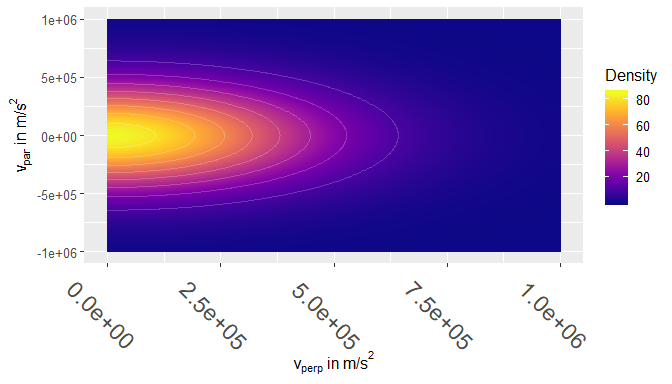
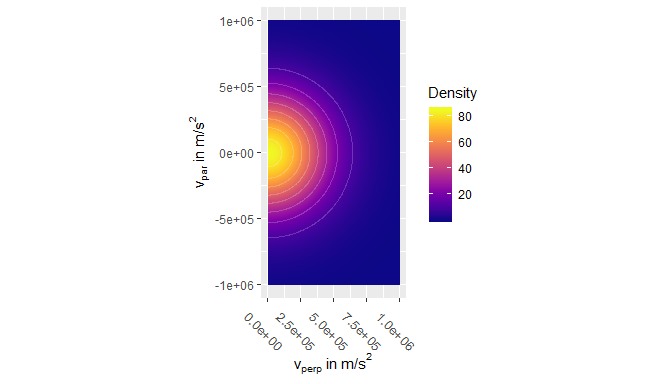
update readme

diff --git a/README.md b/README.md
@@ -7,9 +7,9 @@
 
 <!-- badges: end -->
 
-The goal of `j0j0r` is to calculate the unscreened current correlation
-tensor of the plasma fluctuation model of [Bindslev 1996, Journal of
-Atmospheric and Terrestial Physics, **58**,
+`j0j0r` is is an R-package built to calculate the unscreened current
+correlation tensor of the plasma fluctuation model of [Bindslev 1996,
+Journal of Atmospheric and Terrestial Physics, **58**,
 983](https://www.sciencedirect.com/science/article/pii/0021916995001298).
 
 The code is meant to be distribution-agnostic, i.e. it should be able to
@@ -22,8 +22,7 @@ distribution types:
 
   - An isotropic Maxwellian distribution.
 
-  - A bi-Maxwellian distribution, with drift along the magnetic field
-    (z-direction).
+  - A bi-Maxwellian distribution with drift along the magnetic field.
 
   - A [generalized Lorentzian /
     Kappa](https://www.spenvis.oma.be/help/background/distributions/distributions.html)
@@ -34,7 +33,7 @@ distribution types:
   - A bivariate normal distribution.
 
   - A slowdown distribution: an isotropic fast-ion slowdown with
-    transport modifications as formulated by George J. Wilkie . See
+    transport modifications as formulated by Wilkie 2018. See
     <https://arxiv.org/abs/1808.01934v2>.
 
 Apart from those, users are free to input new distribution functions of
@@ -110,13 +109,16 @@ calculate_distribution_data_frame(
   v_perp = seq(0, 1e6, length.out = 300) 
 ) %>% 
 plot_dist() +
-ggplot2::theme(text = ggplot2::element_text(size = 12))
+ggplot2::theme(
+  text = ggplot2::element_text(size = 11),
+  axis.text.x = ggplot2::element_text(angle = -45, size = 10)
+) 
 ```
 
 <img src="man/figures/README-maxwdist-1.png" width="100%" style="display: block; margin: auto;" />
 
 The elements of the current correlation tensor can now be calculated
-with the `j0j0` funnction. Here assuming a magnetic field of 2.5 T, a
+with the `j0j0` function. Here assuming a magnetic field of 2.5 T, a
 wave vector length corresponding to 3 mm waves, resolved angles of 60
 and 86 degrees, and frequencies between 0 and 400 MHz.
 
@@ -132,7 +134,7 @@ maxwellian_example <- j0j0(
 )
 ```
 
-The output is a tibble with results (j0j0) for every combination of all
+The output is a tibble with results (j0j0) for all combinations of all
 values of the input variables:
 
 ``` r
@@ -151,7 +153,7 @@ dplyr::glimpse(maxwellian_example)
 #> $ j0j0               <cpl> 5.984923e-16+0i, 5.095825e-18+0i, 5.990463e...
 ```
 
-And the results can be plotted with:
+The results can be plotted with:
 
 ``` r
 plot_j0j0(maxwellian_example, wrap_by = "element", color_by = "phi")
